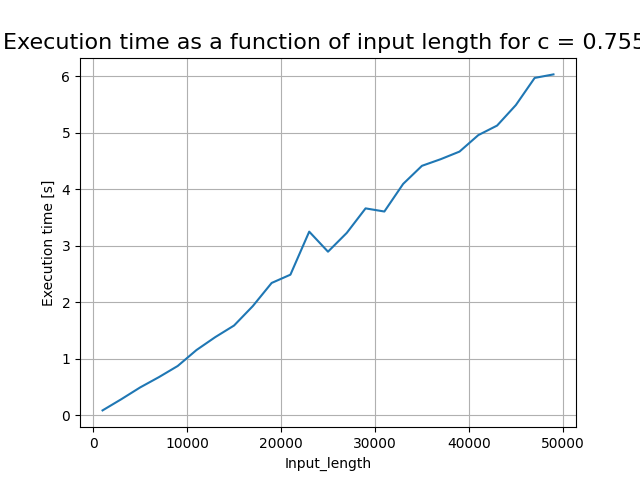
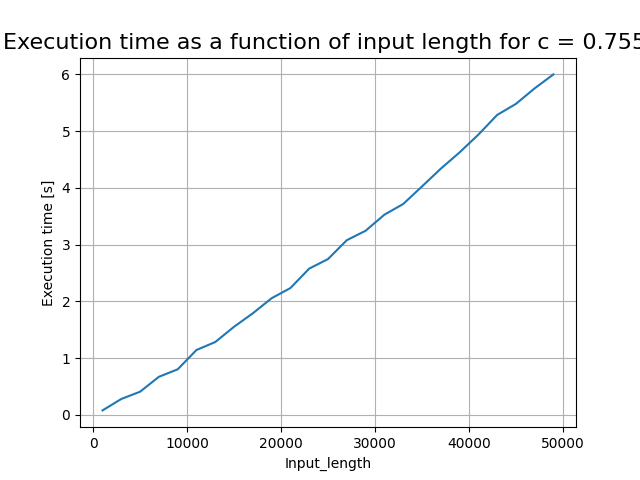
bruh

diff --git a/lab3/code/tests.py b/lab3/code/tests.py
@@ -1,3 +1,4 @@
+from numpy.lib.function_base import average
 from  binary_tree import *
 import numpy as np
 import pandas as pd
@@ -28,7 +29,8 @@ class tests:
     def plot(self, x: list, y: list, x_label: str, y_label: str, plot_header: str):
         fig = plt.figure()
         plt.title(plot_header, fontsize='16')
-        if len(y[0])> 1:
+
+        if type(y[0]) == list:
           plt.plot(x,y[0])
           plt.plot(x,y[1])
         else:
@@ -45,7 +47,7 @@ class tests:
         print("Testing a normal bst with varying input length")
         for length in range(self.length_range[0], self.length_range[1], self.length_interval):
             print(f"Testing for a normal BST with input length {length}")
-            tree = binary_tree()
+            tree = binary_tree(0.5)
             tree.uses_balance = False
             data = list(np.random.randint(-length, length, length))
             time_1 = time.time()
@@ -105,7 +107,93 @@ class tests:
         tree.insert_list(self.input_data)
         self.results["validate_functions"].append(tree.is_valid())
         return self.results["validate_functions"]
-
+    def test_preorderd_list(self):
+      results_sorting = []
+      results_not_sorting = []
+      length = int(average(self.length_range))
+      data = list(np.random.randint(-length, length, length))
+      data = sorted(data)
+      for c in list(np.arange(self.c_range[0], self.c_range[1], self.c_interval)):
+        tree = binary_tree(c)
+        time_1 = time.time()
+        tree.insert_list(data)
+        time_2 = time.time()
+        results_sorting.append(time_2-time_1)
+        tree = binary_tree(c)
+        tree.uses_balance = False
+        time_1 = time.time()
+        tree.insert_list(data)
+        time_2 = time.time()
+        results_not_sorting.append(time_2-time_1)
+      x = list(np.arange(self.c_range[0], self.c_range[1], self.c_interval))
+      y = [results_sorting, results_not_sorting]
+      self.plot(x, y,
+                "c value", "Execution time [s]", f"Execution time as a function of c for a preorderd list")
+    def test_semi_sorted_list(self):
+      results_sorting = []
+      results_not_sorting = []
+      length = int(average(self.length_range))
+      data = sorted(list(np.random.randint(-length, length, length)))
+      data = data[len(data/2):]+data[:len(data/2)]
+      for c in list(np.arange(self.c_range[0], self.c_range[1], self.c_interval)):
+        tree = binary_tree(c)
+        time_1 = time.time()
+        tree.insert_list(data)
+        time_2 = time.time()
+        results_sorting.append(time_2-time_1)
+        tree = binary_tree(c)
+        tree.uses_balance = False
+        time_1 = time.time()
+        tree.insert_list(data)
+        time_2 = time.time()
+        results_not_sorting.append(time_2-time_1)
+      x = list(np.arange(self.c_range[0], self.c_range[1], self.c_interval))
+      y = [results_sorting, results_not_sorting]
+      self.plot(x, y,
+                "c value", "Execution time [s]", f"Execution time as a function of c for a semi sorted list")
+    def test_reverse_sorted_list(self):
+      results_sorting = []
+      results_not_sorting = []
+      length = int(average(self.length_range))
+      data = sorted(list(np.random.randint(-length, length, length)))
+      data = data[::-1]
+      for c in list(np.arange(self.c_range[0], self.c_range[1], self.c_interval)):
+        tree = binary_tree(c)
+        time_1 = time.time()
+        tree.insert_list(data)
+        time_2 = time.time()
+        results_sorting.append(time_2-time_1)
+        tree = binary_tree(c)
+        tree.uses_balance = False
+        time_1 = time.time()
+        tree.insert_list(data)
+        time_2 = time.time()
+        results_not_sorting.append(time_2-time_1)
+      x = list(np.arange(self.c_range[0], self.c_range[1], self.c_interval))
+      y = [results_sorting, results_not_sorting]
+      self.plot(x, y,
+                "c value", "Execution time [s]", f"Execution time as a function of c for a reverse sorted list")
+    def test_random_list(self):
+      results_sorting = []
+      results_not_sorting = []
+      length = int(average(self.length_range))
+      data = sorted(list(np.random.randint(-length, length, length)))
+      for c in list(np.arange(self.c_range[0], self.c_range[1], self.c_interval)):
+        tree = binary_tree(c)
+        time_1 = time.time()
+        tree.insert_list(data)
+        time_2 = time.time()
+        results_sorting.append(time_2-time_1)
+        tree = binary_tree(c)
+        tree.uses_balance = False
+        time_1 = time.time()
+        tree.insert_list(data)
+        time_2 = time.time()
+        results_not_sorting.append(time_2-time_1)
+      x = list(np.arange(self.c_range[0], self.c_range[1], self.c_interval))
+      y = [results_sorting, results_not_sorting]
+      self.plot(x, y,
+                "c value", "Execution time [s]", f"Execution time as a function of c for a random list")
     def test_constant_c_varying_length(self):
         print("*"*100)
         c = self.c_range[1]+self.c_range[0]
@@ -126,40 +214,13 @@ class tests:
         y = list(self.results["constant_c_varying_length"])
         self.plot(x, y,
                   "Input_length", "Execution time [s]", f"Execution time as a function of input length for c = {(self.c_range[1]+self.c_range[0])/2} ")
-
-    def test_constant_length_varying_c(self):
-        print("*"*100)
-        print("Running tests for constant_length_varying_c")
-        length = 10**4
-        
-        if self.results["c_values_tested"] == []:
-          log_c = True
-        else:
-          log_c = False
-        self.input_data = list(np.random.randint(-length, length, length))
-        for c in list(np.arange(self.c_range[0], self.c_range[1], self.c_interval)):
-            print(f"Testing with c = {c} for length = {length}")
-            tree = binary_tree(c)
-            time_1 = time.time()
-            tree.insert_list(self.input_data)
-            time_2 = time.time()
-            self.results["constant_length_varying_c"].append(time_2-time_1)
-            if log_c:
-              self.results["c_values_tested"].append(c)
-            print(f"Run took {time_2-time_1} s")
-            print("- - "*25)
-        x = list(self.results["c_values_tested"])
-        y = list(self.results["constant_length_varying_c"])
-        self.plot(x, y,
-                  "c value", "Execution time [s]", f"Execution time as a function of c for input length =  {length} ")
-
     def run_all_tests(self):
         functions = inspect.getmembers(self, predicate=inspect.ismethod)
         for key, value in functions:
             if 'test' in key and key != "run_all_tests":
                 value()
         test.dump_to_csv("latest_run")
-
+    
     def dump_to_csv(self, csv_name):
         df = [pd.DataFrame({k: v}) for k, v in self.results.items()]
 
@@ -177,6 +238,6 @@ if __name__ == "__main__":
     test = tests()
     test.test_validate_functions()
     assert test.results["validate_functions"][0]
-    #test.run_all_tests()
-    #print(test.results)
-    test.show_for_average_c()
+    test.run_all_tests()
+    print(test.results)
+    #test.show_for_average_c()

diff --git a/lab3/code/binary_tree.py b/lab3/code/binary_tree.py
@@ -49,7 +49,6 @@ class binary_tree_node:
         if self.right:
             ret.extend(self.right.in_order_walk())
         return ret
-
     """
       Only used to validate that large trees are balanced too
     """
@@ -241,6 +240,10 @@ class binary_tree:
 
     def in_order_walk(self):
         return self.root.in_order_walk()
+
+
+
+
 
     def rebalance_tree(c, node, return_type="node"):
         """
